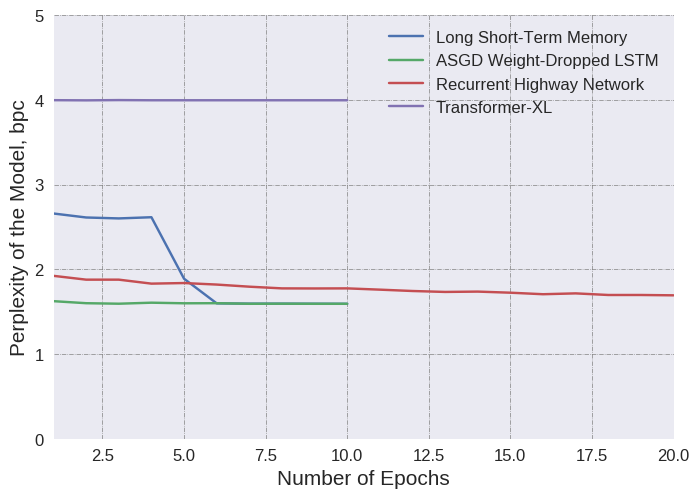
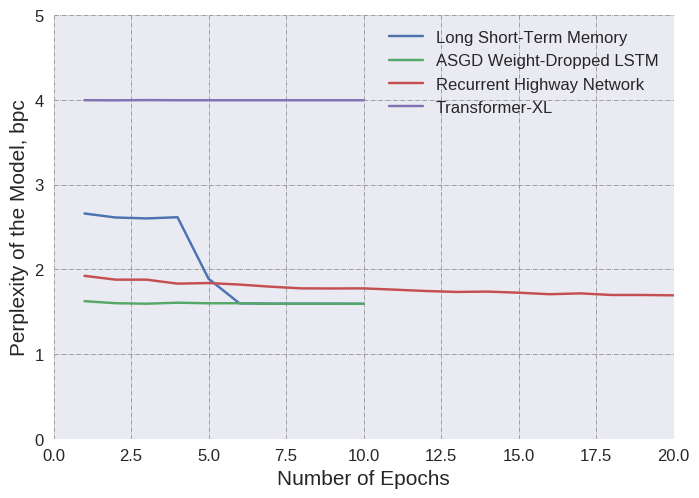
Up

diff --git a/plot_spk_span.py b/plot_spk_span.py
@@ -5,17 +5,17 @@ import matplotlib.pyplot as plt
 import numpy as np
 
 
-# # Dataset SP2 20
-# y1 = np.array([2.659,2.612,2.601,2.615,1.889,1.598,1.595,1.595,1.594,1.593])
-# y2 = np.array([1.923,1.878,1.878,1.831,1.838,1.820,1.795,1.775,1.774,1.775,1.760,1.744,1.733,1.737,1.724,1.706,1.716,1.697,1.697,1.693])
-# y3 = np.array([1.624,1.600,1.594,1.606,1.599,1.600,1.593,1.594,1.593,1.593])
-# y4 = np.array([3.997,3.995,3.998,3.996,3.996,3.996,3.996,3.996,3.996,3.996])
+# Dataset SP2 20
+y1 = np.array([2.659,2.612,2.601,2.615,1.889,1.598,1.595,1.595,1.594,1.593])
+y2 = np.array([1.923,1.878,1.878,1.831,1.838,1.820,1.795,1.775,1.774,1.775,1.760,1.744,1.733,1.737,1.724,1.706,1.716,1.697,1.697,1.693])
+y3 = np.array([1.624,1.600,1.594,1.606,1.599,1.600,1.593,1.594,1.593,1.593])
+y4 = np.array([3.997,3.995,3.998,3.996,3.996,3.996,3.996,3.996,3.996,3.996])
 
-# Dataset SP2 100
-y1 = np.array([2.837,2.564,2.792,2.690,1.813,1.513,1.416,1.413,1.412,1.412])
-y2 = np.array([1.656,1.682,1.675,1.651,1.689,1.688,1.646,1.648,1.634,1.624,1.604,1.586,1.564,1.566,1.564,1.550,1.541,1.548,1.534,1.527])
-y3 = np.array([1.413,1.413,1.410,1.407,1.408,1.406,1.395,1.404,1.414,1.393])
-y4 = np.array([3.219,3.217,3.217,3.219,3.218,3.217,3.217,3.218,3.217,3.217])
+# # Dataset SP2 100
+# y1 = np.array([2.837,2.564,2.792,2.690,1.813,1.513,1.416,1.413,1.412,1.412])
+# y2 = np.array([1.656,1.682,1.675,1.651,1.689,1.688,1.646,1.648,1.634,1.624,1.604,1.586,1.564,1.566,1.564,1.550,1.541,1.548,1.534,1.527])
+# y3 = np.array([1.413,1.413,1.410,1.407,1.408,1.406,1.395,1.404,1.414,1.393])
+# y4 = np.array([3.219,3.217,3.217,3.219,3.218,3.217,3.217,3.218,3.217,3.217])
 
 # # Dataset SP2 200
 # y1 = np.array([2.712,2.680,2.694,2.584,1.745,1.479,1.349,1.342,1,341,1.340])
@@ -47,10 +47,10 @@ with plt.style.context(('seaborn')):
     plt.grid(which='major', linestyle='-.', linewidth='0.5', color='grey')
     plt.grid(which='minor', linestyle=':', linewidth='0.2', color='grey')
     ax = plt.axes()
-    ax.set_xlim(1, 20)
+    ax.set_xlim(0, 20)
     ax.set_ylim(0, 5)
     ax.set_xlabel('Number of Epochs', fontsize=15)
     ax.set_ylabel('Perplexity of the Model, bpc', fontsize=15)
     lgd = ax.legend(loc='upper right', shadow=True, fancybox=True, numpoints=1, prop={'size': 12})
-    plt.savefig('peplexity_sp2_100', bbox_extra_artists=(lgd,), bbox_inches='tight')
+    plt.savefig('peplexity_sp2_20', bbox_extra_artists=(lgd,), bbox_inches='tight')
     plt.show()
